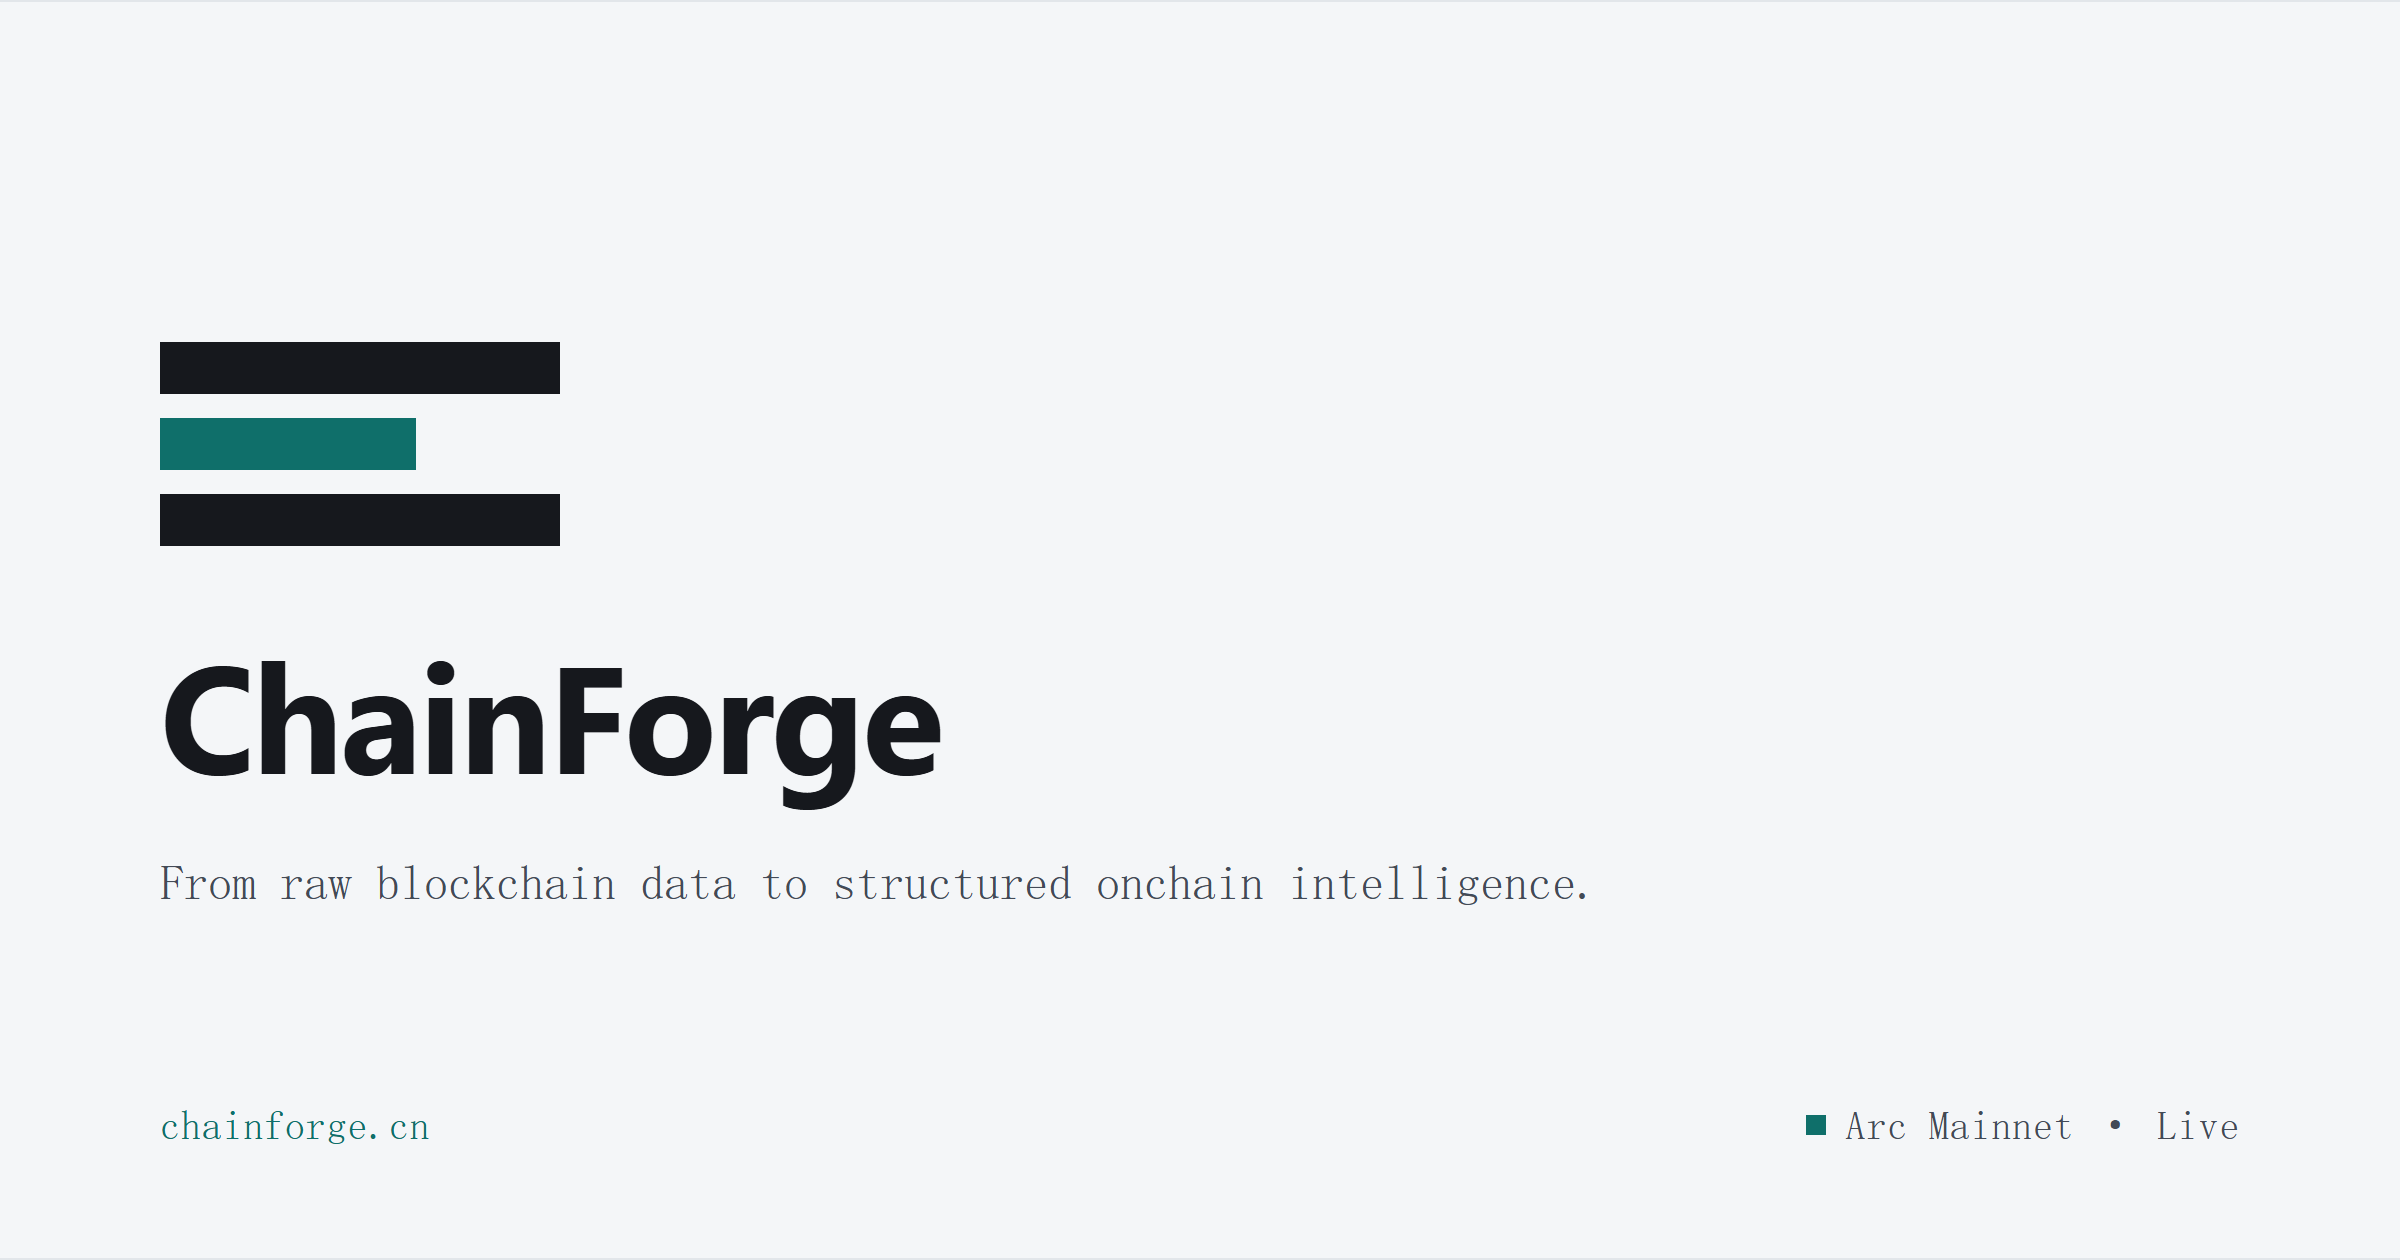
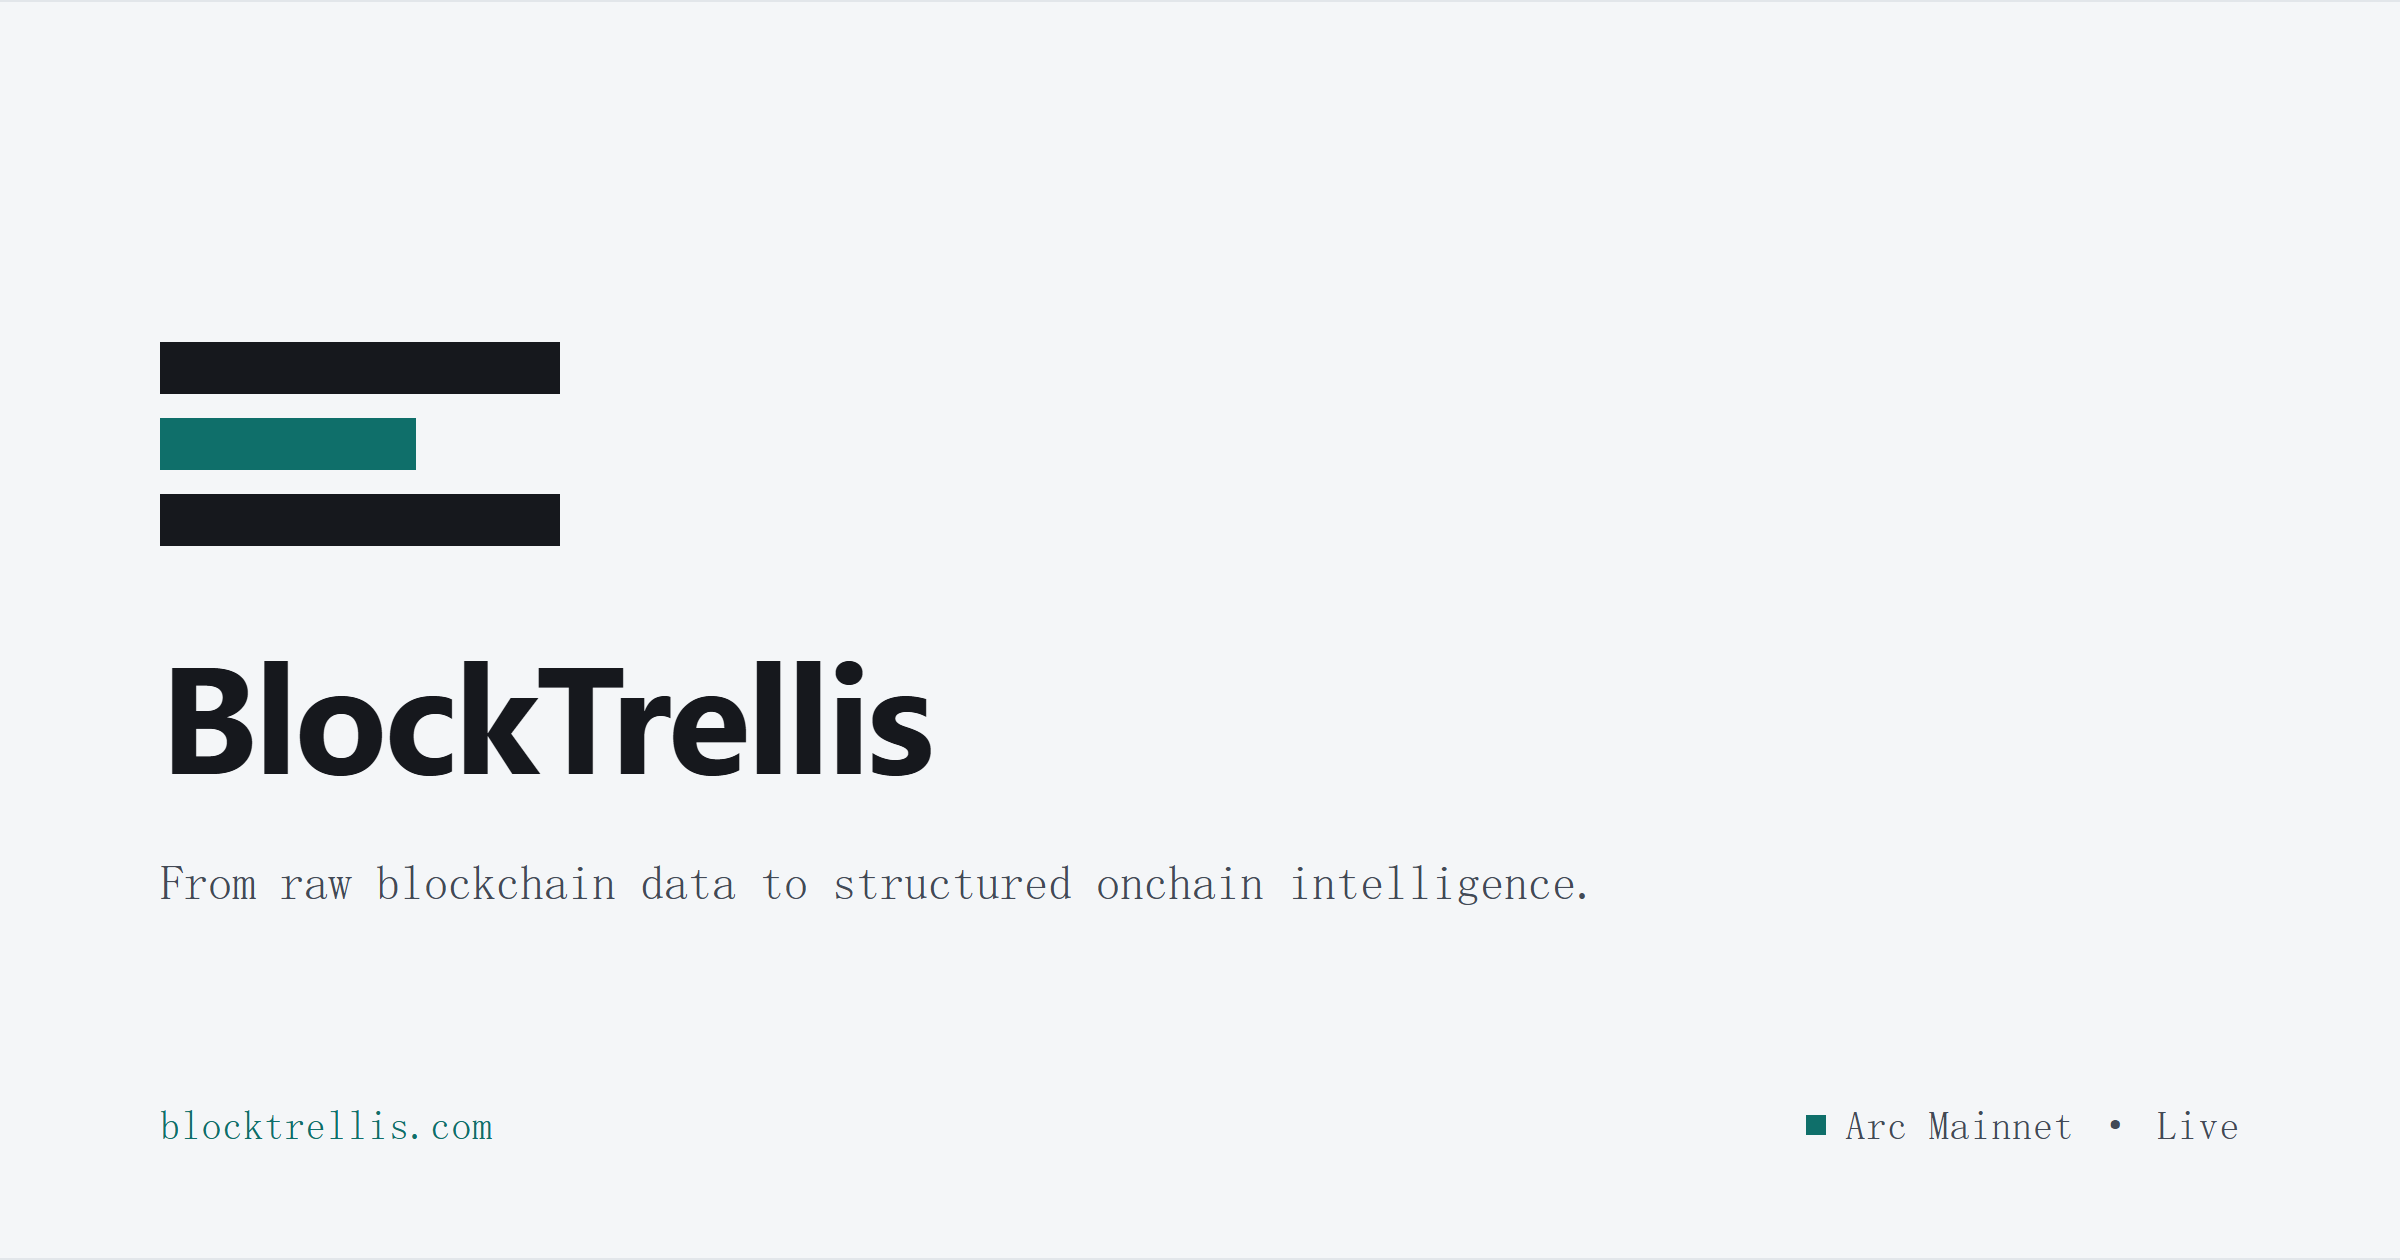
rebrand: ChainForge -> BlockTrellis, chainforge.cn -> blocktrellis.com
Domain moved to blocktrellis.com; chainforge.cn will host a different
site later, so the product name changes to match. Renamed everywhere
the old brand appeared: page titles/metadata, OpenGraph/Twitter card,
JSON-LD Organization/WebSite, sitemap/robots base URL, header/footer
wordmark, about/api/docs/build-log copy, docs.ts API examples and
narrative text, GITHUB_URL and API_BASE, and both READMEs.
Regenerated opengraph-image.png with the new wordmark and domain.

chainforge.cn itself is untouched and keeps serving the last deploy
as-is; deploy plumbing for the new domain is a separate change.

Changed region(s): [[0.0625, 0.5262, 0.4062, 0.65], [0.0625, 0.8667, 0.1875, 0.9286]]

diff --git a/web/lib/docs.ts b/web/lib/docs.ts
@@ -80,8 +80,8 @@ export const DOCS: Record<string, DocPage> = {
   introduction: {
     key: "introduction",
     section: "Introduction",
-    title: "ChainForge",
-    lead: "ChainForge is a blockchain data engineering platform that transforms raw onchain data into canonical datasets, semantic activities and explainable onchain intelligence.",
+    title: "BlockTrellis",
+    lead: "BlockTrellis is a blockchain data engineering platform that transforms raw onchain data into canonical datasets, semantic activities and explainable onchain intelligence.",
     blocks: [
       h("What this is"),
       p("The first supported network is Arc Mainnet, indexed from genesis. The public surface today is a small set of live tables, an API that reads them, and the engineering notes that explain how they were built."),
@@ -98,10 +98,10 @@ export const DOCS: Record<string, DocPage> = {
     lead: "Read your first block from Arc Mainnet in under a minute, then query the same data with SQL.",
     blocks: [
       h("1. Get an API key"),
-      p("Keys are free while ChainForge is in beta. Every request is authenticated with a bearer token."),
+      p("Keys are free while BlockTrellis is in beta. Every request is authenticated with a bearer token."),
       code(
-        `curl https://api.chainforge.cn/v1/arc/blocks/latest \\
-  -H "Authorization: Bearer $CHAINFORGE_KEY"`,
+        `curl https://api.blocktrellis.com/v1/arc/blocks/latest \\
+  -H "Authorization: Bearer $BLOCKTRELLIS_KEY"`,
         "bash",
       ),
       h("2. Read the response"),
@@ -136,7 +136,7 @@ GROUP BY hour ORDER BY hour;`,
     key: "authentication",
     section: "Getting Started",
     title: "Authentication",
-    lead: "Every request to api.chainforge.cn carries a bearer token. There is no unauthenticated path, including health checks that return dataset metadata.",
+    lead: "Every request to api.blocktrellis.com carries a bearer token. There is no unauthenticated path, including health checks that return dataset metadata.",
     blocks: [
       h("Header"),
       code(`Authorization: Bearer cf_live_…`, "http"),
@@ -169,7 +169,7 @@ X-RateLimit-Reset: 1726400000`,
     key: "data-model",
     section: "Data",
     title: "Data Model",
-    lead: "ChainForge separates raw, decoded, canonical and semantic tables. Each layer is derived from the one below it and never mutates it.",
+    lead: "BlockTrellis separates raw, decoded, canonical and semantic tables. Each layer is derived from the one below it and never mutates it.",
     blocks: [
       h("Layers"),
       code(
@@ -265,7 +265,7 @@ LIMIT 20;`,
     lead: "The REST API is a thin reader over the same tables the SQL engine uses. Field names match the dataset schema. There is no parallel “API shape.”",
     blocks: [
       h("Base URL"),
-      code("https://api.chainforge.cn", "text"),
+      code("https://api.blocktrellis.com", "text"),
       h("Conventions"),
       p("JSON only. Pagination uses a cursor, not offset. Timestamps are ISO-8601 UTC. Hashes are 0x-prefixed. Null means unknown or not applicable, never a sentinel string."),
       h("Versioning"),
@@ -441,7 +441,7 @@ WHERE status = 0 AND block_number > 2910000;`,
     key: "reorg-handling",
     section: "Infrastructure",
     title: "Reorg Handling",
-    lead: "Arc can reorganise its most recent blocks. ChainForge indexes to the head with a two-block lag and repairs any block whose hash changes.",
+    lead: "Arc can reorganise its most recent blocks. BlockTrellis indexes to the head with a two-block lag and repairs any block whose hash changes.",
     blocks: [
       h("Detection"),
       p("On every new block, the indexer compares the parent hash with the stored hash at height − 1. A mismatch marks a reorg starting at the deepest divergent height."),

diff --git a/web/app/page.tsx b/web/app/page.tsx
@@ -27,7 +27,7 @@ export default function HomePage() {
           <div>
             <h1 className="hero-title">{HEADLINE}</h1>
             <p style={{ fontSize: 17, lineHeight: "28px", maxWidth: "56ch", margin: "32px 0 0" }}>
-              ChainForge indexes, decodes and models blockchain data into reliable datasets for
+              BlockTrellis indexes, decodes and models blockchain data into reliable datasets for
               developers, analysts and researchers.
             </p>
             <div style={{ display: "flex", gap: 12, flexWrap: "wrap", marginTop: 28 }}>
@@ -60,7 +60,7 @@ export default function HomePage() {
         <div className="rule" />
 
         <section style={{ padding: "72px 0" }}>
-          <span className="kicker">What ChainForge does</span>
+          <span className="kicker">What BlockTrellis does</span>
           <h2 className="section-title" style={{ marginBottom: 24 }}>
             From chain data to usable data
           </h2>
@@ -128,7 +128,7 @@ export default function HomePage() {
               Starting with Arc
             </h2>
             <p className="body-copy" style={{ maxWidth: "44ch", margin: "0 0 24px" }}>
-              ChainForge begins with Arc Mainnet, indexing the network from day one.
+              BlockTrellis begins with Arc Mainnet, indexing the network from day one.
             </p>
             <Link href="/status" style={{ fontSize: 14, fontWeight: 600 }}>
               Network &amp; data status →
@@ -152,7 +152,7 @@ export default function HomePage() {
           >
             <div>
               <span className="kicker">Build log</span>
-              <h2 className="section-title">Building ChainForge in Public</h2>
+              <h2 className="section-title">Building BlockTrellis in Public</h2>
             </div>
             <Link href="/build-log" style={{ fontSize: 14, fontWeight: 600 }}>
               View Build Log →

diff --git a/web/app/layout.tsx b/web/app/layout.tsx
@@ -21,21 +21,21 @@ const plexMono = IBM_Plex_Mono({
 
 export const metadata: Metadata = {
   title: {
-    default: "ChainForge",
-    template: "%s · ChainForge",
+    default: "BlockTrellis",
+    template: "%s · BlockTrellis",
   },
   description:
-    "From raw blockchain data to structured onchain intelligence. ChainForge indexes, decodes and models blockchain data into reliable datasets for developers, analysts and researchers.",
-  metadataBase: new URL("https://chainforge.cn"),
+    "From raw blockchain data to structured onchain intelligence. BlockTrellis indexes, decodes and models blockchain data into reliable datasets for developers, analysts and researchers.",
+  metadataBase: new URL("https://blocktrellis.com"),
   openGraph: {
-    title: "ChainForge",
+    title: "BlockTrellis",
     description: "From raw blockchain data to structured onchain intelligence.",
-    siteName: "ChainForge",
+    siteName: "BlockTrellis",
     type: "website",
   },
   twitter: {
     card: "summary_large_image",
-    title: "ChainForge",
+    title: "BlockTrellis",
     description: "From raw blockchain data to structured onchain intelligence.",
   },
 };
@@ -45,15 +45,15 @@ const JSON_LD = {
   "@graph": [
     {
       "@type": "Organization",
-      name: "ChainForge",
-      url: "https://chainforge.cn",
-      logo: "https://chainforge.cn/logo.png",
-      sameAs: ["https://github.com/chainforge"],
+      name: "BlockTrellis",
+      url: "https://blocktrellis.com",
+      logo: "https://blocktrellis.com/logo.png",
+      sameAs: ["https://github.com/blocktrellis"],
     },
     {
       "@type": "WebSite",
-      name: "ChainForge",
-      url: "https://chainforge.cn",
+      name: "BlockTrellis",
+      url: "https://blocktrellis.com",
     },
   ],
 };

diff --git a/web/app/about/page.tsx b/web/app/about/page.tsx
@@ -7,7 +7,7 @@ import { GITHUB_URL } from "@/lib/status";
 export const metadata: Metadata = {
   title: "About",
   description:
-    "ChainForge is an independent blockchain data engineering project, started in 2026 with Arc Mainnet and built in public.",
+    "BlockTrellis is an independent blockchain data engineering project, started in 2026 with Arc Mainnet and built in public.",
   alternates: { canonical: "/about/" },
 };
 
@@ -36,7 +36,7 @@ export default function AboutPage() {
               fontWeight: 600,
             }}
           >
-            ChainForge is an independent blockchain data engineering project focused on understanding
+            BlockTrellis is an independent blockchain data engineering project focused on understanding
             how raw blockchain data becomes reliable, reusable and meaningful datasets.
           </p>
           <p className="lede" style={{ margin: "0 0 40px" }}>

diff --git a/web/lib/content.ts b/web/lib/content.ts
@@ -723,7 +723,7 @@ export const BUILD_LOG: LogEntry[] = [
   {
     id: "001",
     n: "#001",
-    title: "Why I Started ChainForge",
+    title: "Why I Started BlockTrellis",
     date: "2026-03-02",
     status: "Published",
     body: [
@@ -840,7 +840,7 @@ export const ARCH_LAYERS = [
     kind: "Source",
     cells: ["JSON-RPC", "WebSocket"],
     detail:
-      "A pinned Arc full node. ChainForge reads blocks, receipts and traces over RPC and subscribes to new heads over WebSocket.",
+      "A pinned Arc full node. BlockTrellis reads blocks, receipts and traces over RPC and subscribes to new heads over WebSocket.",
     status: "Live",
     stack: "arc-node v1.4",
   },

diff --git a/web/components/footer.tsx b/web/components/footer.tsx
@@ -30,10 +30,10 @@ export function Footer() {
             }}
           >
             <LogoMark />
-            ChainForge
+            BlockTrellis
           </div>
           <div style={{ color: "var(--color-neutral-700)", maxWidth: "32ch" }}>
-            From raw blockchain data to structured onchain intelligence. chainforge.cn
+            From raw blockchain data to structured onchain intelligence. blocktrellis.com
           </div>
         </div>
         <div style={{ display: "grid", gap: 8, alignContent: "start" }}>

diff --git a/web/app/api/api-explorer.tsx b/web/app/api/api-explorer.tsx
@@ -31,7 +31,7 @@ export function ApiExplorer() {
 }`;
   }, [ep, indexed, current.json]);
 
-  const curl = `curl ${API_BASE}${current.path.replace(/\{(\w+)\}/g, "<$1>")} \\\n  -H "Authorization: Bearer $CHAINFORGE_KEY"`;
+  const curl = `curl ${API_BASE}${current.path.replace(/\{(\w+)\}/g, "<$1>")} \\\n  -H "Authorization: Bearer $BLOCKTRELLIS_KEY"`;
   const params =
     current.params.length > 0
       ? current.params

diff --git a/web/lib/status.ts b/web/lib/status.ts
@@ -37,7 +37,7 @@ export function fmt(n: number) {
   return n.toLocaleString("en-US");
 }
 
-export const GITHUB_URL = "https://github.com/chainforge";
-export const API_BASE = "https://api.chainforge.cn";
+export const GITHUB_URL = "https://github.com/blocktrellis";
+export const API_BASE = "https://api.blocktrellis.com";
 export const INITIAL_LATEST = 2_918_331;
 export const INITIAL_INDEXED = 2_918_329;

diff --git a/web/components/header.tsx b/web/components/header.tsx
@@ -23,7 +23,7 @@ export function Header() {
       <nav className="nav-bar">
         <Link href="/" className="nav-brand" onClick={() => setOpen(false)}>
           <Logo />
-          ChainForge
+          BlockTrellis
         </Link>
         <div className="nav-links" data-navlinks="1">
           {NAV.map((item) => (

diff --git a/web/app/docs/page.tsx b/web/app/docs/page.tsx
@@ -3,7 +3,7 @@ import { DocsShell } from "./docs-shell";
 
 export const metadata: Metadata = {
   title: "Docs",
-  description: "Developer documentation for the ChainForge data platform.",
+  description: "Developer documentation for the BlockTrellis data platform.",
   alternates: { canonical: "/docs/" },
 };
 

diff --git a/web/app/build-log/build-log-view.tsx b/web/app/build-log/build-log-view.tsx
@@ -24,7 +24,7 @@ export function BuildLogView({ id }: { id: string }) {
         Build Log
       </h1>
       <p className="lede" style={{ margin: "0 0 40px" }}>
-        Building ChainForge in public.
+        Building BlockTrellis in public.
       </p>
       <div
         data-stack="1"

diff --git a/web/app/api/page.tsx b/web/app/api/page.tsx
@@ -3,7 +3,7 @@ import { ApiExplorer } from "./api-explorer";
 
 export const metadata: Metadata = {
   title: "API",
-  description: "REST API reference for ChainForge datasets.",
+  description: "REST API reference for BlockTrellis datasets.",
   alternates: { canonical: "/api/" },
 };
 
